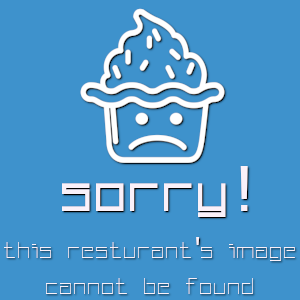
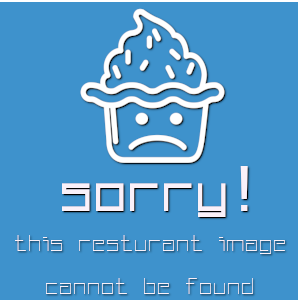
Css Changes/New Placeholder

Changed region(s): [[0.0, 0.0, 1.0, 1.0]]

diff --git a/css/styletest.css b/css/styletest.css
@@ -5,8 +5,6 @@ body {
     font-family: 'Voces', cursive;
 }
 
-#btn-locate {}
-
 #map {
     height: 600px;
     width: 57.5%;
@@ -44,4 +42,36 @@ body {
 .form,
 .row {
     margin-bottom: 0px;
+}
+
+.input-field,
+input {
+    color: white;
+    font-weight: bolder;
+}
+
+::-webkit-input-placeholder {
+    /* Edge */
+    color: white;
+    opacity: .625;
+}
+
+:-ms-input-placeholder {
+    /* Internet Explorer 10-11 */
+    color: white;
+    opacity: .625;
+}
+
+::placeholder {
+    color: white;
+    opacity: .625;
+}
+
+input.valid[type=text]:not(.browser-default) {
+    border-bottom: 1px solid #3E92CC;
+    box-shadow: 0 1px 0 0 #3E92CC;
+}
+
+h3 {
+    font-weight: bolder;
 }
